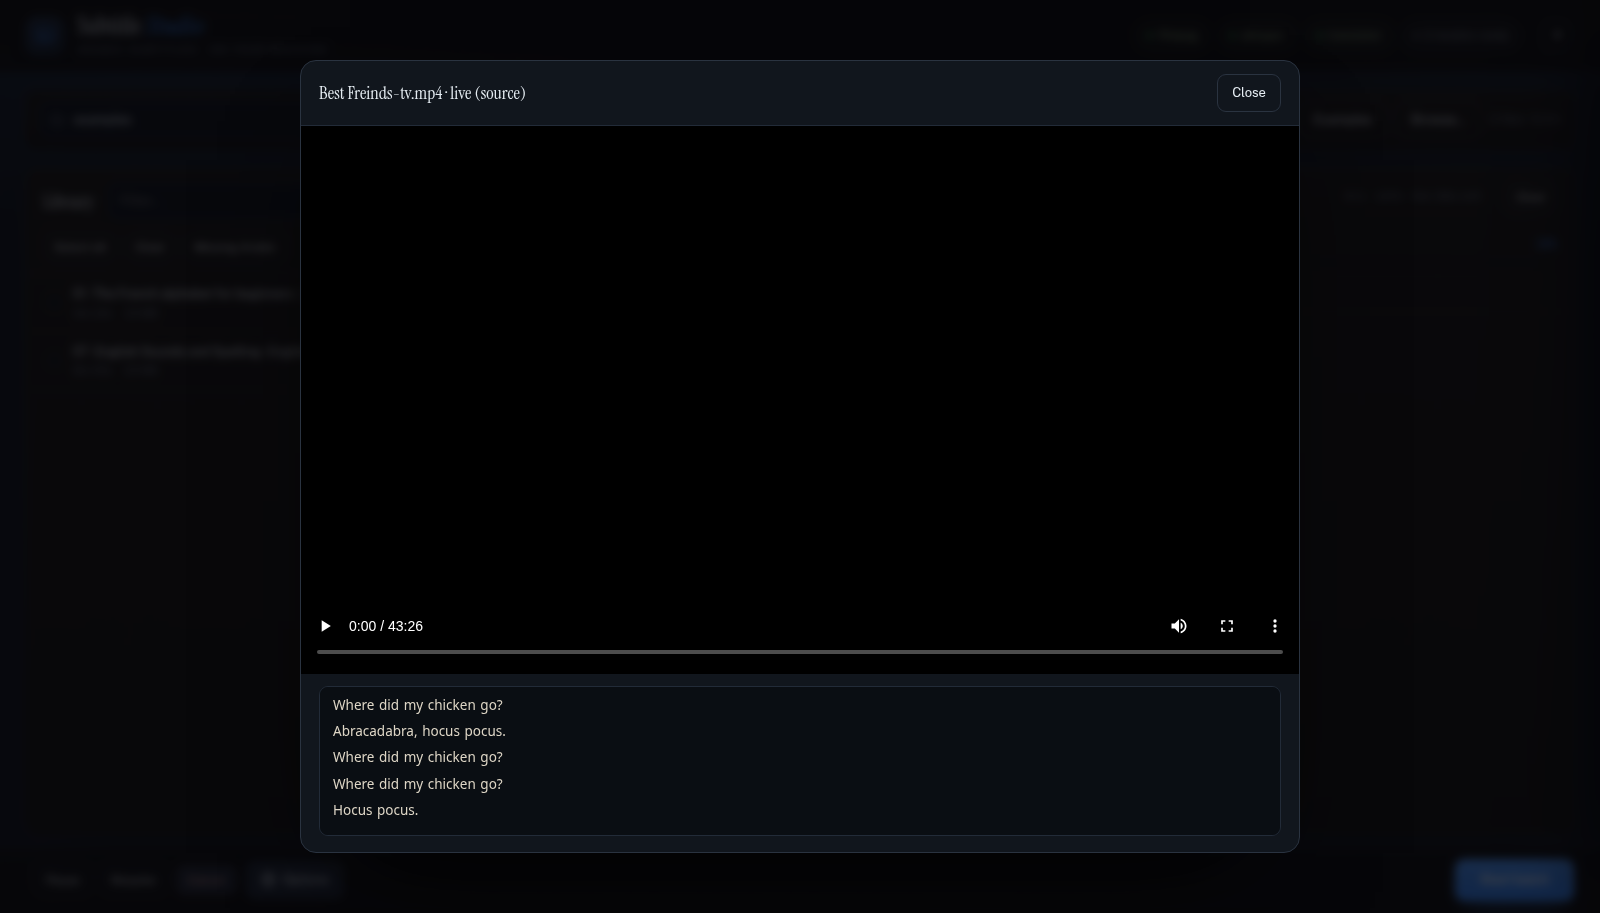
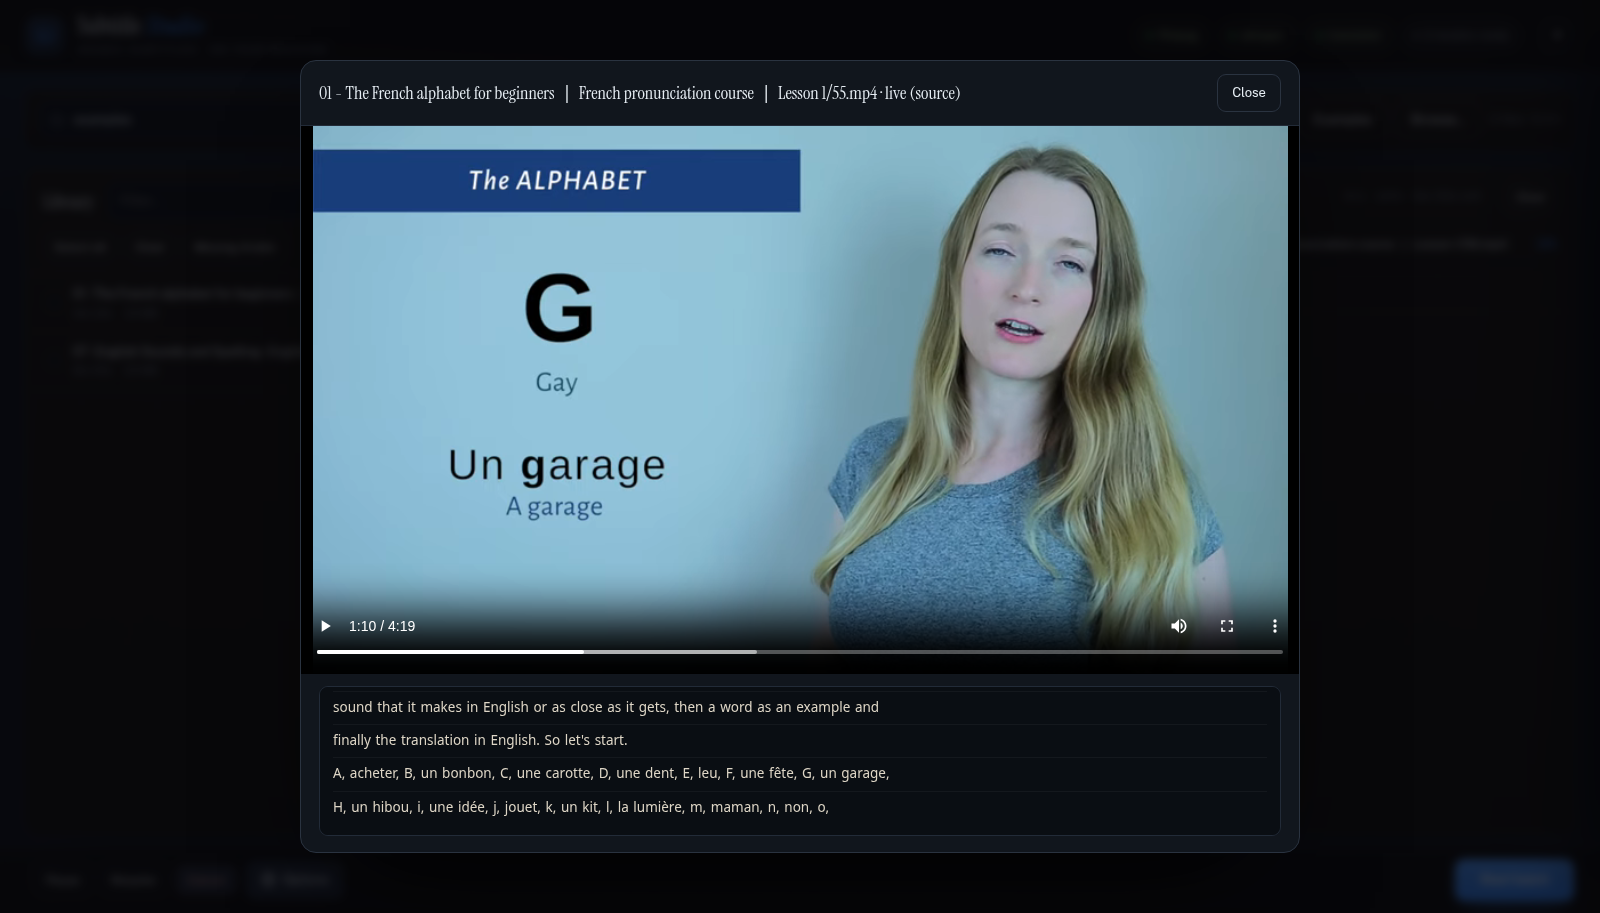
live view: seek to the transcription point, render lines incrementally; relicense as MIT
- live payload carries cue start times so the player opens where work is happening
- append-only line rendering removes the flicker on every poll
- replace PolyForm Noncommercial with MIT (commercial use allowed), drop COMMERCIAL.md

diff --git a/app/static/app.js b/app/static/app.js
@@ -11,7 +11,7 @@ let SELECTED = new Set();
 let LAST_JOB = null;
 let EDIT = { path: null, subPath: null, cues: [] };
 let PREVIEW = { cues: [] };
-let LIVE = { path: null, timer: null };
+let LIVE = { path: null, timer: null, phase: null, count: 0, seek: false };
 
 /* ---------------------------------------------------------------- helpers */
 const fmtDur = (s) => {
@@ -481,25 +481,46 @@ async function openLive(item) {
     v.load();
   }
   PREVIEW.cues = [];
-  LIVE.path = item.path;
+  LIVE = { path: item.path, timer: null, phase: null, count: 0, seek: true };
   $("#pname").textContent = item.name + " · live";
   $("#subtext").classList.add("ltr");
-  $("#subtext").textContent = "waiting for the first lines…";
-  if (LIVE.timer) clearInterval(LIVE.timer);
+  $("#subtext").innerHTML = `<div class="live-line muted">waiting for the first lines…</div>`;
+  await pollLive();
   LIVE.timer = setInterval(pollLive, 1500);
-  pollLive();
 }
 
 async function pollLive() {
   if (!LIVE.path) return;
   try {
     const r = await api(`/api/live?path=${encodeURIComponent(LIVE.path)}`);
-    if (!r.lines || !r.lines.length) return;
     const box = $("#subtext");
+    if (!r.lines || !r.lines.length) return;
+
+    // Start the player where transcription currently is, not at 0:00.
+    if (LIVE.seek) {
+      const v = $("#player");
+      const last = r.lines[r.lines.length - 1];
+      if (last && last.start > 0 && v.readyState >= 1) {
+        v.currentTime = last.start;
+        LIVE.seek = false;
+      }
+    }
+
     box.classList.toggle("ltr", r.phase !== "translate");
-    const atBottom = box.scrollHeight - box.scrollTop - box.clientHeight < 30;
-    box.textContent = r.lines.map((l) => l.text).join("\n");
+    // append only what is new: replacing the whole block every poll is what
+    // made the text flicker
+    if (LIVE.phase !== r.phase || r.lines.length < LIVE.count) {
+      box.innerHTML = "";
+      LIVE.phase = r.phase;
+      LIVE.count = 0;
+    }
+    const atBottom = box.scrollHeight - box.scrollTop - box.clientHeight < 40;
+    for (let i = LIVE.count; i < r.lines.length; i++) {
+      box.appendChild(el("div", "live-line", r.lines[i].text));
+    }
+    LIVE.count = r.lines.length;
     if (atBottom) box.scrollTop = box.scrollHeight;
+
     const tag = r.phase === "translate"
       ? `Arabic${r.total ? ` ${r.done}/${r.total}` : ""}`
       : "source";

diff --git a/app/static/style.css b/app/static/style.css
@@ -637,3 +637,9 @@ html[data-theme="light"] .badge { border-color: #d8d0c0; color: var(--faint); }
 
 /* source-language live text reads left-to-right */
 .subbox.ltr { direction: ltr; text-align: left; }
+
+/* live transcript lines */
+.live-line { padding: 3px 0; border-bottom: 1px solid rgba(255,255,255,.045); }
+.live-line:last-child { border-bottom: none; }
+.live-line.muted { color: var(--faint); }
+html[data-theme="light"] .live-line { border-bottom-color: rgba(0,0,0,.06); }

diff --git a/app/jobs.py b/app/jobs.py
@@ -96,23 +96,31 @@ class Worker:
             if not data:
                 return {"phase": "idle", "lines": []}
             ar = data.get("ar") or {}
+            starts = data.get("starts") or []
             if ar:
-                lines = [{"i": i, "text": ar[i]} for i in sorted(ar)]
+                lines = [{"i": i, "text": ar[i],
+                          "start": starts[i] if i < len(starts) else 0.0}
+                         for i in sorted(ar)]
                 return {"phase": "translate", "name": data["name"], "lines": lines,
                         "lang": "ar", "done": len(ar), "total": data.get("total") or len(ar)}
-            return {"phase": "asr", "name": data["name"],
-                    "lines": [{"i": k, "text": v} for k, v in enumerate(data["src"][-200:])],
+            src = data["src"][-200:]
+            offset = len(data["src"]) - len(src)
+            lines = [{"i": offset + k, "text": v,
+                      "start": starts[offset + k] if offset + k < len(starts) else 0.0}
+                     for k, v in enumerate(src)]
+            return {"phase": "asr", "name": data["name"], "lines": lines,
                     "lang": data.get("lang") or "?"}
 
     def _live_reset(self, path: str, name: str):
         with self._live_lock:
-            self._live[path] = {"name": name, "src": [], "ar": {}, "lang": None}
+            self._live[path] = {"name": name, "src": [], "starts": [], "ar": {}, "lang": None}
 
-    def _live_src(self, path: str, text: str):
+    def _live_src(self, path: str, text: str, start: float = 0.0):
         with self._live_lock:
             d = self._live.get(path)
             if d is not None:
                 d["src"].append(text)
+                d["starts"].append(round(start, 2))
 
     def _live_ar(self, path: str, idxs, texts):
         with self._live_lock:
@@ -281,7 +289,7 @@ class Worker:
             max_chars=opts.get("max_chars", 42),
             on_progress=on_progress,
             should_stop=stopped,
-            on_cue=lambda c: self._live_src(video, c.text),
+            on_cue=lambda c: self._live_src(video, c.text, c.start),
         )
         src = (info.language or lang or "en").lower()
         max_chars = opts.get("max_chars", 42)

diff --git a/README.md b/README.md
@@ -177,21 +177,17 @@ If it appears, the model being loaded is not cached yet — connect once.
 
 ## License
 
-**Free for personal and educational use. Businesses need a paid licence.**
+**MIT** — see [LICENSE](LICENSE). Free for personal, educational and commercial
+use, modification and redistribution, provided the copyright notice is kept.
 
-Subtitle Studio is licensed under the
-[PolyForm Noncommercial License 1.0.0](LICENSE).
+### Third-party components
 
-| Use | Licence |
+| Component | Licence |
 |---|---|
-| Personal projects, hobby, private use | Free |
-| Study, research, experimentation | Free |
-| Schools, universities, non-profit education | Free |
-| Charities, public bodies, government | Free |
-| **Any commercial or business use** | **[Paid licence](COMMERCIAL.md)** |
+| `faster-whisper`, Whisper weights | MIT |
+| `transformers`, `MarianMT` code | Apache-2.0 |
+| `Helsinki-NLP/opus-mt-*` models | CC BY 4.0 |
+| Instrument Serif, Public Sans, Noto Kufi Arabic | SIL Open Font License 1.1 |
 
-Commercial use includes internal use by a company, client work, paid products
-and hosted services. See [COMMERCIAL.md](COMMERCIAL.md) for terms and contact.
-
-> Note: this is a source-available licence, not an OSI open-source licence.
-> GitHub will show it as “Other”.
+Models are downloaded at runtime and are **not** distributed with this
+repository.
